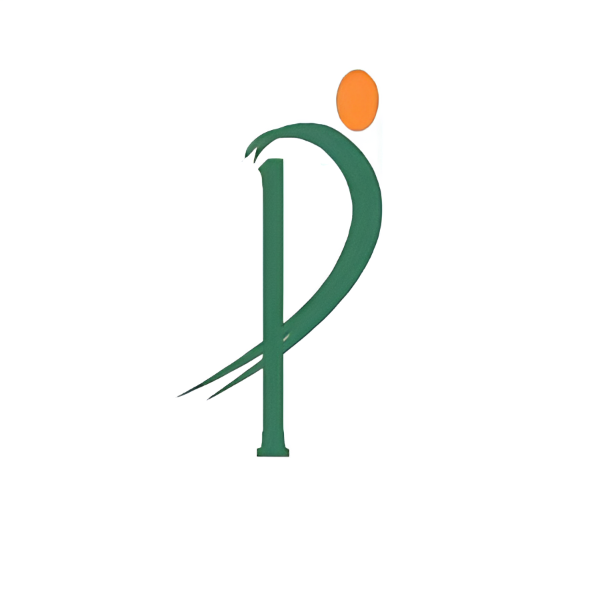
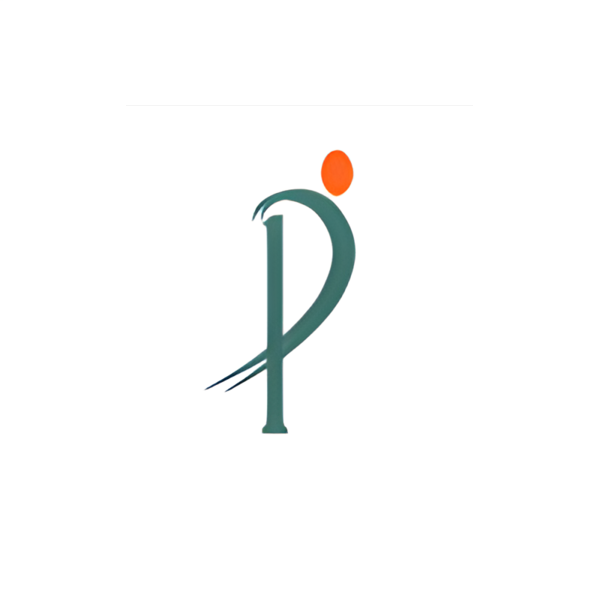
Melhorar tela de loading e Corrigir na tela Gerir usuários o evento de solciitação

Changed region(s): [[0.3, 0.12, 0.66, 0.78]]

diff --git a/src/slices/studentSlice.js b/src/slices/studentSlice.js
@@ -31,7 +31,7 @@ export const list = createAsyncThunk(
         const response = await useRequest().studentList({
             classId,
             date: `${ano}${mes}${dia}`,
-            token: "eyJhbGciOiJIUzI1NiIsInR5cCI6IkpXVCJ9.eyJ0b2tlbl90eXBlIjoiYWNjZXNzIiwiZXhwIjoxNzQzNjc5NzQ4LCJpYXQiOjE3NDMyNDc3NDgsImp0aSI6IjFhOGRhM2U2MWIzMDQ5MGU4ZTZiZDUzZTRhZTBjZjM3IiwidXNlcl9pZCI6MX0.bPkhiM_Oa0H_TCd41U_KRxX3ZimJUPz6rWz8AKkdstY"
+            token: userAuth.token
         });
 
         if(response.success){
@@ -45,10 +45,10 @@ export const list = createAsyncThunk(
 export const register = createAsyncThunk(
     'student/register',
     async(data, {getState, rejectWithValue}) => {
-        const userAuth = await getState().auth.userAuth; //"eyJhbGciOiJIUzI1NiIsInR5cCI6IkpXVCJ9.eyJ0b2tlbl90eXBlIjoiYWNjZXNzIiwiZXhwIjoxNzQzNjc5NzQ4LCJpYXQiOjE3NDMyNDc3NDgsImp0aSI6IjFhOGRhM2U2MWIzMDQ5MGU4ZTZiZDUzZTRhZTBjZjM3IiwidXNlcl9pZCI6MX0.bPkhiM_Oa0H_TCd41U_KRxX3ZimJUPz6rWz8AKkdstY"
+        const userAuth = await getState().auth.userAuth; //userAuth.token
         const response = await useRequest().studentRegister({
             data,
-            token: "eyJhbGciOiJIUzI1NiIsInR5cCI6IkpXVCJ9.eyJ0b2tlbl90eXBlIjoiYWNjZXNzIiwiZXhwIjoxNzQzNjc5NzQ4LCJpYXQiOjE3NDMyNDc3NDgsImp0aSI6IjFhOGRhM2U2MWIzMDQ5MGU4ZTZiZDUzZTRhZTBjZjM3IiwidXNlcl9pZCI6MX0.bPkhiM_Oa0H_TCd41U_KRxX3ZimJUPz6rWz8AKkdstY"
+            token: userAuth.token
         });
 
         if(response.success){
@@ -63,10 +63,10 @@ export const register = createAsyncThunk(
 export const call = createAsyncThunk(
     'student/call',
     async(data, {getState, rejectWithValue}) => {
-        const userAuth = await getState().auth.userAuth; //"eyJhbGciOiJIUzI1NiIsInR5cCI6IkpXVCJ9.eyJ0b2tlbl90eXBlIjoiYWNjZXNzIiwiZXhwIjoxNzQzNjc5NzQ4LCJpYXQiOjE3NDMyNDc3NDgsImp0aSI6IjFhOGRhM2U2MWIzMDQ5MGU4ZTZiZDUzZTRhZTBjZjM3IiwidXNlcl9pZCI6MX0.bPkhiM_Oa0H_TCd41U_KRxX3ZimJUPz6rWz8AKkdstY"
+        const userAuth = await getState().auth.userAuth; //userAuth.token
         const response = await useRequest().callRegister({
             data,
-            token: "eyJhbGciOiJIUzI1NiIsInR5cCI6IkpXVCJ9.eyJ0b2tlbl90eXBlIjoiYWNjZXNzIiwiZXhwIjoxNzQzNjc5NzQ4LCJpYXQiOjE3NDMyNDc3NDgsImp0aSI6IjFhOGRhM2U2MWIzMDQ5MGU4ZTZiZDUzZTRhZTBjZjM3IiwidXNlcl9pZCI6MX0.bPkhiM_Oa0H_TCd41U_KRxX3ZimJUPz6rWz8AKkdstY"
+            token: userAuth.token
         });
 
         if(response.success){
@@ -84,7 +84,7 @@ export const change = createAsyncThunk(
         const response = await useRequest().studentChange({
             student,
             data,
-            token: "eyJhbGciOiJIUzI1NiIsInR5cCI6IkpXVCJ9.eyJ0b2tlbl90eXBlIjoiYWNjZXNzIiwiZXhwIjoxNzQzNjc5NzQ4LCJpYXQiOjE3NDMyNDc3NDgsImp0aSI6IjFhOGRhM2U2MWIzMDQ5MGU4ZTZiZDUzZTRhZTBjZjM3IiwidXNlcl9pZCI6MX0.bPkhiM_Oa0H_TCd41U_KRxX3ZimJUPz6rWz8AKkdstY"
+            token: userAuth.token
         });
 
         if(response.success){
@@ -102,7 +102,7 @@ export const remove = createAsyncThunk(
         const userAuth = await getState().auth.userAuth;
         const response = await useRequest().studentRemove({
             student,
-            token: "eyJhbGciOiJIUzI1NiIsInR5cCI6IkpXVCJ9.eyJ0b2tlbl90eXBlIjoiYWNjZXNzIiwiZXhwIjoxNzQzNjc5NzQ4LCJpYXQiOjE3NDMyNDc3NDgsImp0aSI6IjFhOGRhM2U2MWIzMDQ5MGU4ZTZiZDUzZTRhZTBjZjM3IiwidXNlcl9pZCI6MX0.bPkhiM_Oa0H_TCd41U_KRxX3ZimJUPz6rWz8AKkdstY"
+            token: userAuth.token
         });
 
         if(response.success){

diff --git a/src/pages/Perfil/index.js b/src/pages/Perfil/index.js
@@ -8,7 +8,6 @@ import { useNavigation } from '@react-navigation/native';
 import { LoadingContext } from '../../contexts/LoadingContext';
 //Components
 import Header from '../../components/Header';
-import LoadingPage from '../../components/LoadingPage';
 import Fade from '../../components/Fade';
 //Pages
 import ChangePassword from './ChangePassword';
@@ -65,7 +64,7 @@ const Perfil = () => {
   const [ showKeyboard, setShowKeyboard ] = useState(false);
 
   const { loadingLogout } = useSelector((state) => state.auth);
-  const { loading, setLoading } = useContext(LoadingContext);
+  const { setLoading } = useContext(LoadingContext);
 
   const { userData } = useSelector((state) => state.me);
   const [ primaryColor, setPrimaryColor ] = useState('#fff');
@@ -178,7 +177,6 @@ const Perfil = () => {
     setUserManagerName(user.full_name);
     setRoleSelected(user.role);
     setIsPendingValue('');
-    user.is_pending ? setIsPendingValue('Sim'): setIsPendingValue('Não');
     setIsPending(user.is_pending);
     user.is_joined ? setIsJoinedValue('Vinculada'): setIsJoinedValue('Desvinculada');
     setUserId(user.user_id);
@@ -190,6 +188,7 @@ const Perfil = () => {
   };
   
   const handlePendingChange = (accept) => {
+    setShowModal(false);
     setIsPendingValue(accept);
     
     const isAccepted = accept === 'Sim';
@@ -260,9 +259,10 @@ const Perfil = () => {
                     </Text>
                     <OptionsContainer>
                       {
-                        ['Vinculada', 'Desvinculada'].map((joined) => (
+                        ['Vinculada', 'Desvinculada'].map((joined, i) => (
                           <Option
                             onPress={() => handleJoinedChange(joined)}
+                            key={i}
                             style={{ 
                               backgroundColor: isJoinedValue == joined ? loadingManager ? '#d9d9d9': primaryColor: '#fff',
                               borderColor: loadingManager ? '#d9d9d9': primaryColor
@@ -299,9 +299,10 @@ const Perfil = () => {
                     </Text>
                     <OptionsContainer>
                       {
-                        ['Sim', 'Não'].map((pending) => (
+                        ['Sim', 'Não'].map((pending, i) => (
                           <Option
                             onPress={() => handlePendingChange(pending)}
+                            key={i}
                             style={{ 
                               backgroundColor: isPendingValue == pending ? loadingManager ? '#d9d9d9': primaryColor: '#fff',
                               borderColor: loadingManager ? '#d9d9d9': primaryColor
@@ -338,10 +339,11 @@ const Perfil = () => {
                     </Text>
                     <OptionsContainer>
                       {
-                        ['Gestor', 'Colaborador'].map((role) => (
+                        ['Gestor', 'Colaborador'].map((role, i) => (
                           <Option
                             onPress={() => handleRoleChange(role)}
                             disabled={ loadingManager ? true: false }
+                            key={i}
                             style={{ 
                               backgroundColor: role == roleSelected ? loadingManager ? '#d9d9d9': primaryColor: '#fff',
                               borderColor: loadingManager ? '#d9d9d9': primaryColor

diff --git a/src/slices/classSlice.js b/src/slices/classSlice.js
@@ -21,7 +21,7 @@ export const register = createAsyncThunk(
         const userAuth = await getState().auth.userAuth;
         const response = await useRequest().classRegister({
             data,
-            token: "eyJhbGciOiJIUzI1NiIsInR5cCI6IkpXVCJ9.eyJ0b2tlbl90eXBlIjoiYWNjZXNzIiwiZXhwIjoxNzQzNjc5NzQ4LCJpYXQiOjE3NDMyNDc3NDgsImp0aSI6IjFhOGRhM2U2MWIzMDQ5MGU4ZTZiZDUzZTRhZTBjZjM3IiwidXNlcl9pZCI6MX0.bPkhiM_Oa0H_TCd41U_KRxX3ZimJUPz6rWz8AKkdstY"
+            token: userAuth.token
         });
 
         if(response.success){
@@ -39,7 +39,7 @@ export const list = createAsyncThunk(
         const userAuth = await getState().auth.userAuth;
         const response = await useRequest().classList({
             company,
-            token: "eyJhbGciOiJIUzI1NiIsInR5cCI6IkpXVCJ9.eyJ0b2tlbl90eXBlIjoiYWNjZXNzIiwiZXhwIjoxNzQzNjc5NzQ4LCJpYXQiOjE3NDMyNDc3NDgsImp0aSI6IjFhOGRhM2U2MWIzMDQ5MGU4ZTZiZDUzZTRhZTBjZjM3IiwidXNlcl9pZCI6MX0.bPkhiM_Oa0H_TCd41U_KRxX3ZimJUPz6rWz8AKkdstY"
+            token: userAuth.token
         });
 
         if(response.success){
@@ -54,11 +54,11 @@ export const list = createAsyncThunk(
 export const change = createAsyncThunk(
     'class/change',
     async({classId, data}, {getState, rejectWithValue}) => {
-        const userAuth = await getState().auth.userAuth; //"eyJhbGciOiJIUzI1NiIsInR5cCI6IkpXVCJ9.eyJ0b2tlbl90eXBlIjoiYWNjZXNzIiwiZXhwIjoxNzQzNjc5NzQ4LCJpYXQiOjE3NDMyNDc3NDgsImp0aSI6IjFhOGRhM2U2MWIzMDQ5MGU4ZTZiZDUzZTRhZTBjZjM3IiwidXNlcl9pZCI6MX0.bPkhiM_Oa0H_TCd41U_KRxX3ZimJUPz6rWz8AKkdstY"
+        const userAuth = await getState().auth.userAuth; //userAuth.token
         const response = await useRequest().classChange({
             classId,
             data,
-            token: "eyJhbGciOiJIUzI1NiIsInR5cCI6IkpXVCJ9.eyJ0b2tlbl90eXBlIjoiYWNjZXNzIiwiZXhwIjoxNzQzNjc5NzQ4LCJpYXQiOjE3NDMyNDc3NDgsImp0aSI6IjFhOGRhM2U2MWIzMDQ5MGU4ZTZiZDUzZTRhZTBjZjM3IiwidXNlcl9pZCI6MX0.bPkhiM_Oa0H_TCd41U_KRxX3ZimJUPz6rWz8AKkdstY"
+            token: userAuth.token
         });
 
         if(response.success){
@@ -76,7 +76,7 @@ export const remove = createAsyncThunk(
         const userAuth = await getState().auth.userAuth;
         const response = await useRequest().classRemove({
             classId,
-            token: "eyJhbGciOiJIUzI1NiIsInR5cCI6IkpXVCJ9.eyJ0b2tlbl90eXBlIjoiYWNjZXNzIiwiZXhwIjoxNzQzNjc5NzQ4LCJpYXQiOjE3NDMyNDc3NDgsImp0aSI6IjFhOGRhM2U2MWIzMDQ5MGU4ZTZiZDUzZTRhZTBjZjM3IiwidXNlcl9pZCI6MX0.bPkhiM_Oa0H_TCd41U_KRxX3ZimJUPz6rWz8AKkdstY"
+            token: userAuth.token
         });
 
         if(response.success){

diff --git a/src/slices/companysSlice.js b/src/slices/companysSlice.js
@@ -13,7 +13,7 @@ export const list = createAsyncThunk(
     'companys/list',
     async(_, { getState, rejectWithValue }) => {
         const userAuth = await getState().auth.userAuth; //Obter token que encontra-se no estado de autenticação
-        const response = await useRequest().companyList("eyJhbGciOiJIUzI1NiIsInR5cCI6IkpXVCJ9.eyJ0b2tlbl90eXBlIjoiYWNjZXNzIiwiZXhwIjoxNzQzNjc5NzQ4LCJpYXQiOjE3NDMyNDc3NDgsImp0aSI6IjFhOGRhM2U2MWIzMDQ5MGU4ZTZiZDUzZTRhZTBjZjM3IiwidXNlcl9pZCI6MX0.bPkhiM_Oa0H_TCd41U_KRxX3ZimJUPz6rWz8AKkdstY")
+        const response = await useRequest().companyList(userAuth.token)
 
         if(response.success){          
             return response;
@@ -30,7 +30,7 @@ export const sendRequest = createAsyncThunk(
         const userAuth = await getState().auth.userAuth; //Obter token que encontra-se no estado de autenticação
         const response = await useRequest().companyPending({
             data,
-            token: "eyJhbGciOiJIUzI1NiIsInR5cCI6IkpXVCJ9.eyJ0b2tlbl90eXBlIjoiYWNjZXNzIiwiZXhwIjoxNzQzNjc5NzQ4LCJpYXQiOjE3NDMyNDc3NDgsImp0aSI6IjFhOGRhM2U2MWIzMDQ5MGU4ZTZiZDUzZTRhZTBjZjM3IiwidXNlcl9pZCI6MX0.bPkhiM_Oa0H_TCd41U_KRxX3ZimJUPz6rWz8AKkdstY"
+            token: userAuth.token
         });
 
         if(response.success){

diff --git a/src/pages/ElectronicCall/index.js b/src/pages/ElectronicCall/index.js
@@ -39,6 +39,8 @@ import { useNavigationState } from '@react-navigation/native';
 
 const Stack = createNativeStackNavigator();
 
+const URL = process.env.EXPO_PUBLIC_API_URL;
+
 const ElectronicCall = () => {
 
   const { loading, setLoading } = useContext(LoadingContext);
@@ -49,12 +51,14 @@ const ElectronicCall = () => {
 
   const [ primaryColor, setPrimaryColor ] = useState('#fff');
   const [ company, setCompany ] = useState(null);
+  const [ logo, setLogo ] = useState(null);
   
   useEffect(()=>{
     if(userData){
       if(userData.companys_joined.length){
         setPrimaryColor(userData.companys_joined[0].primary_color);
         setCompany(userData.companys_joined[0].company_id_annotated);
+        setLogo(`${URL}/files/${userData.companys_joined[0].logo}`);
       }
 
     }
@@ -252,7 +256,7 @@ const ElectronicCall = () => {
   return (
     <>
       {
-        loading ? <LoadingPage/> : (
+        loading ? <LoadingPage backgroundColor={primaryColor} logo={logo}/> : (
           <Container>
             {showAlertError && <Alert message='Falha ao cadastrar turma' setShow={setShowAlertError}/>}
             {(showModal || showModalChange || showModalRemove) && <Fade/>}

diff --git a/src/slices/meSlice.js b/src/slices/meSlice.js
@@ -15,7 +15,7 @@ export const me = createAsyncThunk(
     'auth/me',
     async(_, { getState, rejectWithValue }) => {
         const userAuth = await getState().auth.userAuth;
-        const response = await useRequest().me("eyJhbGciOiJIUzI1NiIsInR5cCI6IkpXVCJ9.eyJ0b2tlbl90eXBlIjoiYWNjZXNzIiwiZXhwIjoxNzQzNjc5NzQ4LCJpYXQiOjE3NDMyNDc3NDgsImp0aSI6IjFhOGRhM2U2MWIzMDQ5MGU4ZTZiZDUzZTRhZTBjZjM3IiwidXNlcl9pZCI6MX0.bPkhiM_Oa0H_TCd41U_KRxX3ZimJUPz6rWz8AKkdstY");
+        const response = await useRequest().me(userAuth.token);
 
         if(response.success){
             return response;
@@ -32,7 +32,7 @@ export const change = createAsyncThunk(
         const userAuth = await getState().auth.userAuth;
         const response = await useRequest().change({
             data,
-            token: "eyJhbGciOiJIUzI1NiIsInR5cCI6IkpXVCJ9.eyJ0b2tlbl90eXBlIjoiYWNjZXNzIiwiZXhwIjoxNzQzNjc5NzQ4LCJpYXQiOjE3NDMyNDc3NDgsImp0aSI6IjFhOGRhM2U2MWIzMDQ5MGU4ZTZiZDUzZTRhZTBjZjM3IiwidXNlcl9pZCI6MX0.bPkhiM_Oa0H_TCd41U_KRxX3ZimJUPz6rWz8AKkdstY"
+            token: userAuth.token
         });
 
         if(response.success){

diff --git a/src/pages/Perfil/ManagerProfile/index.js b/src/pages/Perfil/ManagerProfile/index.js
@@ -5,7 +5,7 @@ import { listUsersManager } from '../../../slices/managerSlice';
 //Hooks
 import { useDispatch, useSelector } from 'react-redux';
 //Styles
-import { CardUser, Label, LabelsArea, IconArea, RoleUser, RoleContainer } from './styles';
+import { CardUser, Label, LabelsArea, IconArea, RoleUser, RoleContainer, CardUserLoading } from './styles';
 import { TitleArea, Title } from '../EditProfile/styles';
 
 import { FontAwesome } from '@expo/vector-icons';
@@ -60,7 +60,13 @@ const ManagerProfile = ({ route }) => {
                         ))
                     }            
                     </View>
-                ): <></>
+                ): (
+                    <View style={{paddingInline: 10, width: '100%'}}>
+                        <CardUserLoading></CardUserLoading>
+                        <CardUserLoading></CardUserLoading>
+                        <CardUserLoading></CardUserLoading>
+                    </View>
+                )
             }
         </ScrollView>
     )

diff --git a/src/slices/managerSlice.js b/src/slices/managerSlice.js
@@ -14,7 +14,7 @@ export const listUsersManager = createAsyncThunk(
         const userAuth = await getState().auth.userAuth;
         const response = await useRequest().listUsersManager({
             companyId,
-            token: "eyJhbGciOiJIUzI1NiIsInR5cCI6IkpXVCJ9.eyJ0b2tlbl90eXBlIjoiYWNjZXNzIiwiZXhwIjoxNzQzNjc5NzQ4LCJpYXQiOjE3NDMyNDc3NDgsImp0aSI6IjFhOGRhM2U2MWIzMDQ5MGU4ZTZiZDUzZTRhZTBjZjM3IiwidXNlcl9pZCI6MX0.bPkhiM_Oa0H_TCd41U_KRxX3ZimJUPz6rWz8AKkdstY"
+            token: userAuth.token
         });
 
         if(response.success){
@@ -34,7 +34,7 @@ export const updateUsersManager = createAsyncThunk(
             companyId,
             userId,
             data,
-            token: "eyJhbGciOiJIUzI1NiIsInR5cCI6IkpXVCJ9.eyJ0b2tlbl90eXBlIjoiYWNjZXNzIiwiZXhwIjoxNzQzNjc5NzQ4LCJpYXQiOjE3NDMyNDc3NDgsImp0aSI6IjFhOGRhM2U2MWIzMDQ5MGU4ZTZiZDUzZTRhZTBjZjM3IiwidXNlcl9pZCI6MX0.bPkhiM_Oa0H_TCd41U_KRxX3ZimJUPz6rWz8AKkdstY"
+            token: userAuth.token
         });
 
         if(response.success){

diff --git a/src/components/LoadingPage/index.js b/src/components/LoadingPage/index.js
@@ -1,17 +1,32 @@
 import React from 'react';
 import { View, ActivityIndicator } from 'react-native';
+//Styles
+import { Logo, LogoContainer } from './styles';
+import { StatusBar } from 'expo-status-bar';
 
-const LoadingPage = () => {
-  return (
+const LoadingPage = ({backgroundColor, logo}) => {
+  return (     
     <View
         style={{
         flex: 1,
         justifyContent: 'center',
         alignItems: 'center',
-        backgroundColor: '#F0F4FF',
+        backgroundColor,
         }}
-    >
-        <ActivityIndicator size="large" color="#131313" />
+    > 
+      <StatusBar 
+        translucent
+        backgroundColor="transparent"
+        style="light" 
+      />      
+      {
+        logo && (
+          <LogoContainer>
+            <Logo source={{uri: logo}}/>
+          </LogoContainer>
+        ) 
+      }
+      <ActivityIndicator size="large" color="#fff" />
     </View>
   )
 }

diff --git a/src/slices/resetPasswordSlice.js b/src/slices/resetPasswordSlice.js
@@ -16,7 +16,7 @@ export const reset = createAsyncThunk(
         const userAuth = await getState().auth.userAuth;
         const response = await useRequest().resetpassword({
             data,
-            token: "eyJhbGciOiJIUzI1NiIsInR5cCI6IkpXVCJ9.eyJ0b2tlbl90eXBlIjoiYWNjZXNzIiwiZXhwIjoxNzQzNjc5NzQ4LCJpYXQiOjE3NDMyNDc3NDgsImp0aSI6IjFhOGRhM2U2MWIzMDQ5MGU4ZTZiZDUzZTRhZTBjZjM3IiwidXNlcl9pZCI6MX0.bPkhiM_Oa0H_TCd41U_KRxX3ZimJUPz6rWz8AKkdstY"
+            token: userAuth.token
         });
 
         if(response.success){

diff --git a/src/pages/Call/index.js b/src/pages/Call/index.js
@@ -30,8 +30,6 @@ import {
   Body,
   TitleAreaPage,
   TitlePage,
-  InfoArea,
-  InfoText,
   InfoName,
   ToolsArea,
   ModalView,
@@ -679,7 +677,7 @@ const Call = ({ route }) => {
   return (
     <>
       {
-        loading ? <LoadingPage/> : (
+        loading ? <LoadingPage backgroundColor={primaryColor} logo={logo}/> : (
           <Container>
             {(showModal || showModalCall || showModalReport || showModalEditStudent || showModalRemoveStudent || showModalSelectDate) && <Fade/>}
             {

diff --git a/src/pages/Call/styles.js b/src/pages/Call/styles.js
@@ -26,20 +26,6 @@ export const TitlePage = styled.Text`
     font-family: 'montserrat-bold';
 `;
 
-export const InfoArea = styled.View`
-    flex-direction: column;
-    margin-top: 10px;
-    margin-bottom: 20px;
-    gap: 5px;
-`;
-
-export const InfoText = styled.View`
-    align-items: center;
-    justify-content: start; 
-    lex-direction: row;f
-    gap: 5px;
-`;
-
 export const ToolsArea = styled.ScrollView.attrs({
     horizontal: true, // Torna o ScrollView horizontal
     contentContainerStyle: {
